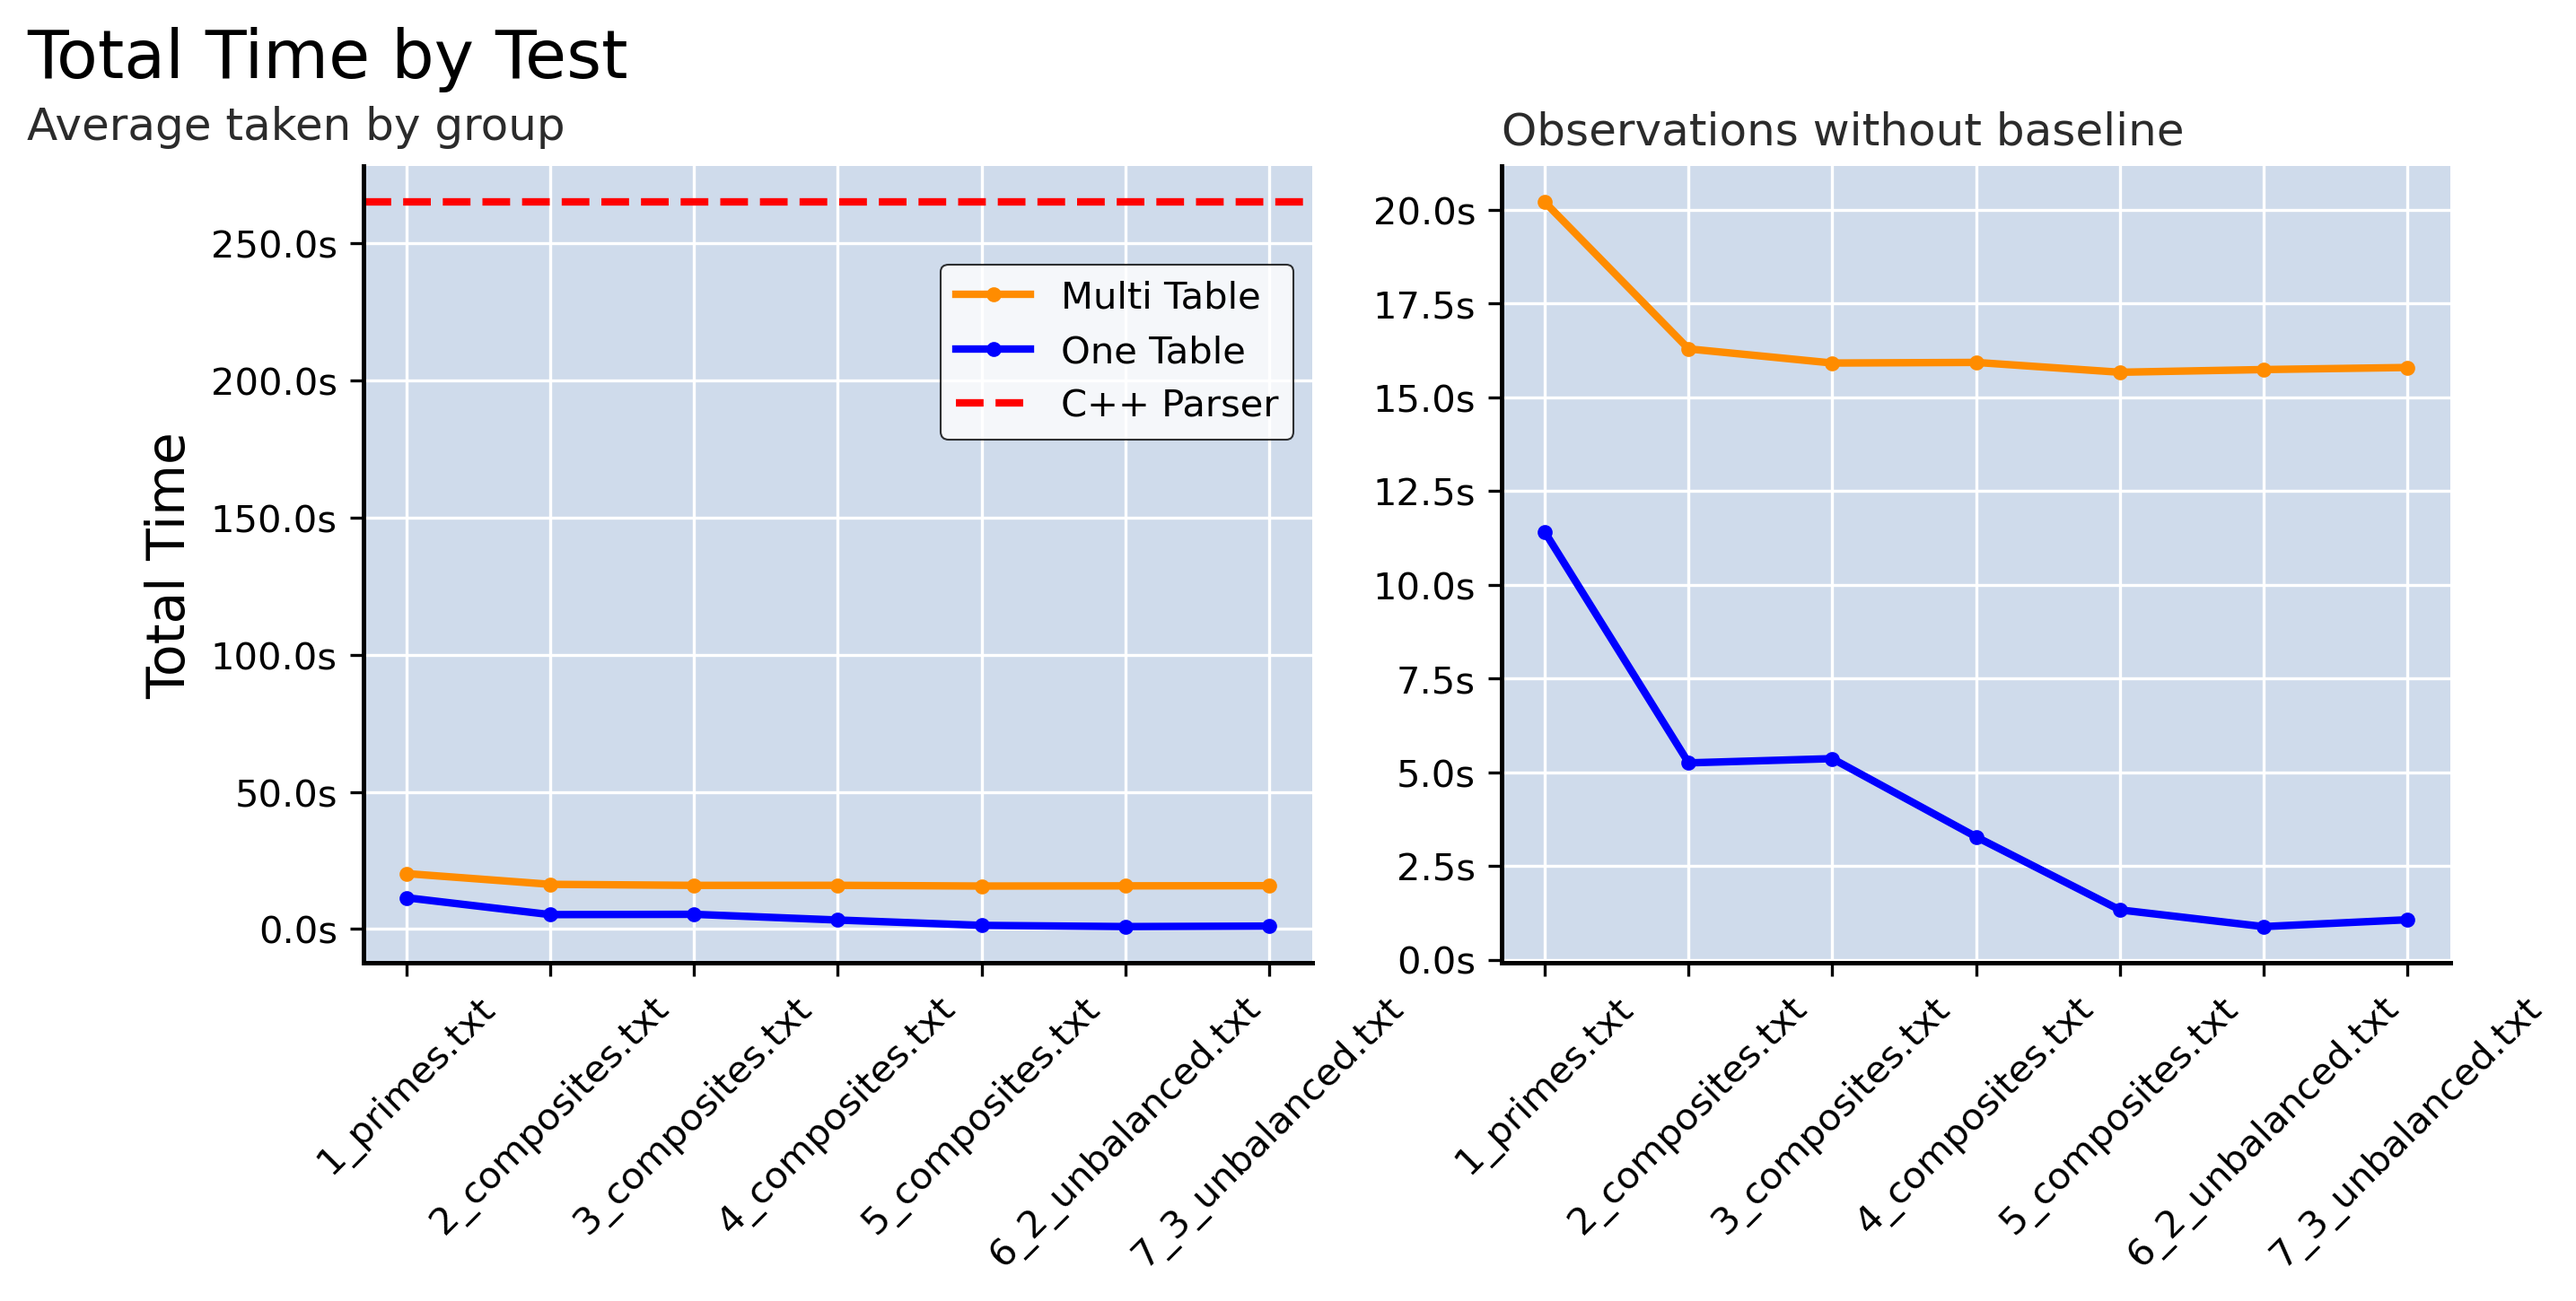
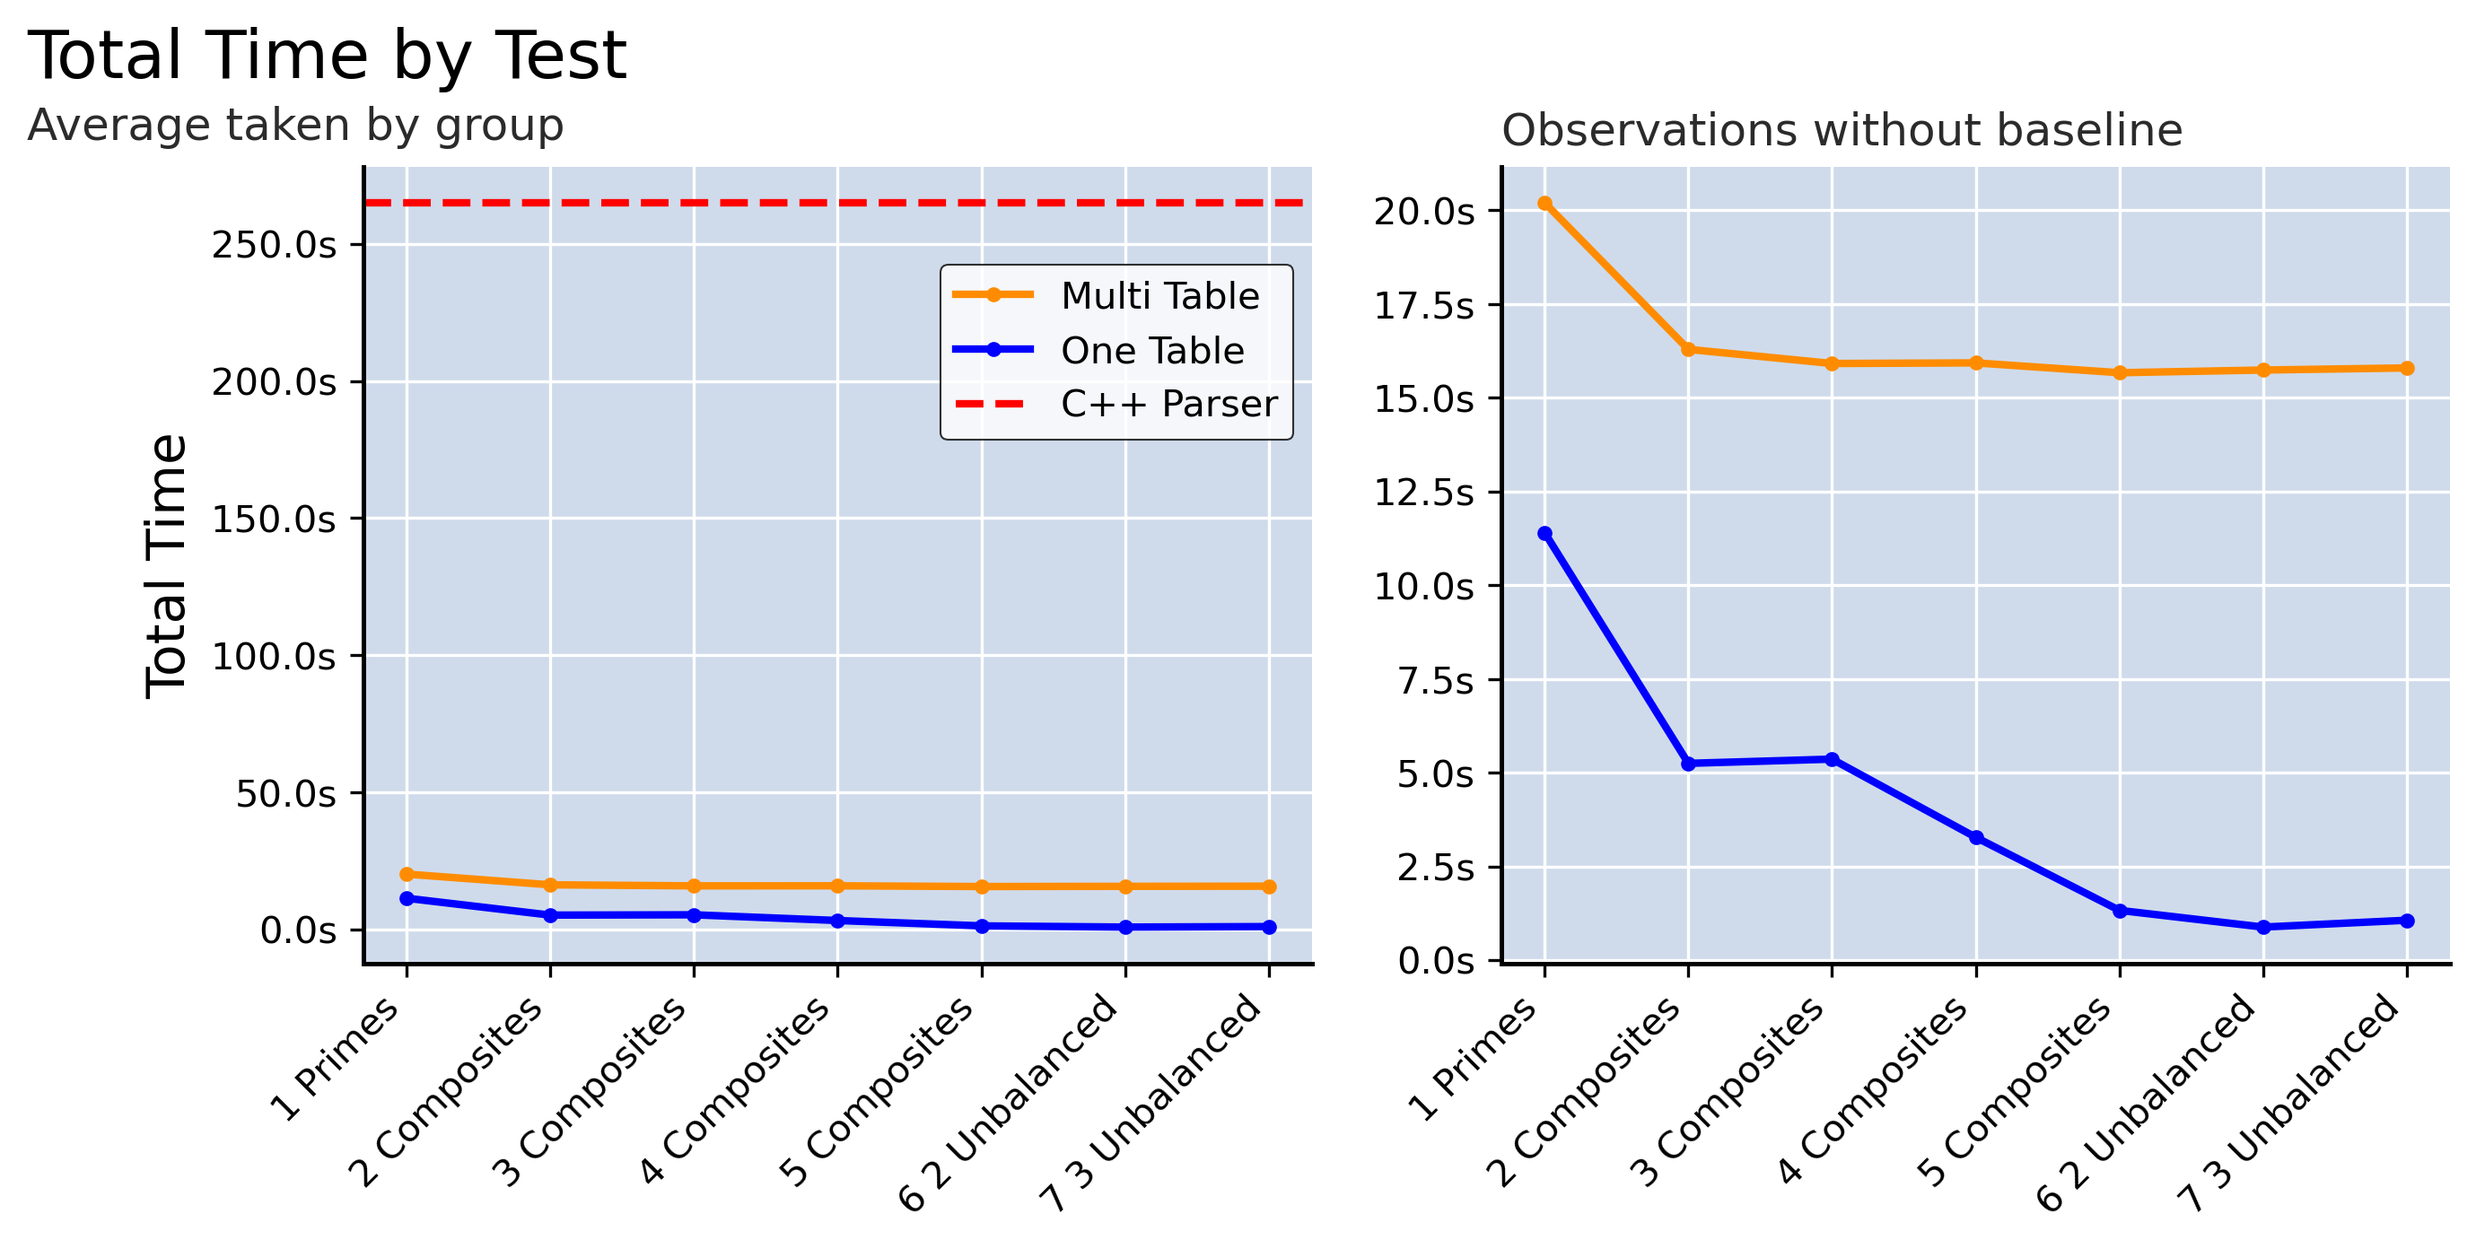
added sanitize function for x labels (removed .txt and proper case)

diff --git a/performance_testing/visualize.py b/performance_testing/visualize.py
@@ -168,9 +168,11 @@ def visualize(
     if y_label:
         ax.set_ylabel(clean_names(avg_by_factors.name))
 
-    # If the x labels are long we'll rotate for readability
-    if max(len(str(label)) for label in df[gb_col].unique()) > 5:
-        ax.tick_params(axis='x', rotation=45)
+    # If the x labels are long we'll clean them and rotate for readability
+    if max(len(str(label)) for label in df[gb_col].unique()) > 3:
+        labels = [clean_names(str(label)) for label in df[gb_col].unique()]
+        ax.set_xticks(range(len(labels)))
+        ax.set_xticklabels(labels, rotation=45, ha='right')
     
     # If neither then this is a secondary viz
     # Therefore it has room for a subtitle
@@ -187,7 +189,12 @@ def clean_names(name: str) -> str:
     """
     Helper function used to sanitize the column names for visualizing.
     """
-    return name.replace('_', ' ').replace('num', 'Number').replace('ms','').strip().title()
+    return name\
+        .replace('_', ' ')\
+        .replace('num', 'Number')\
+        .replace('ms','')\
+        .replace('.txt', '')\
+        .strip().title()
 
 
 def ms_to_s(val: int, pos:int) -> str:
